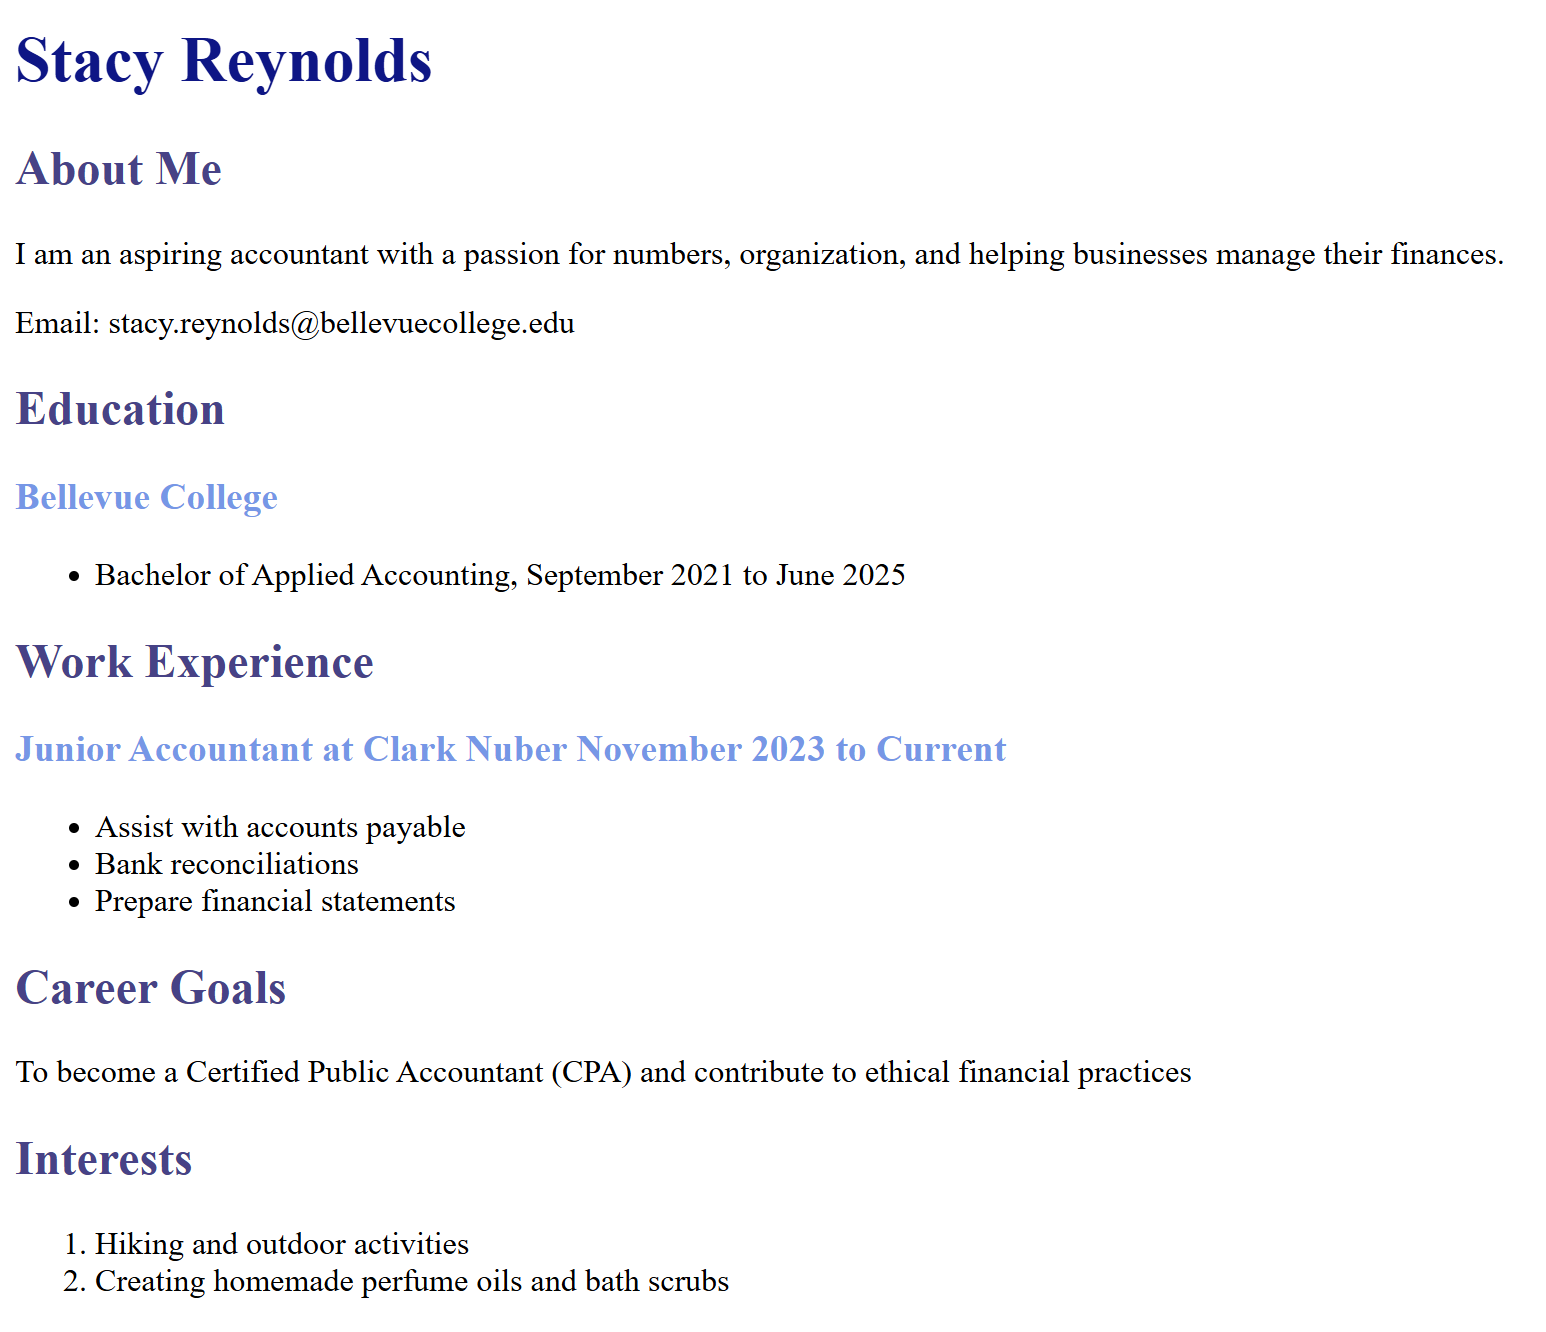
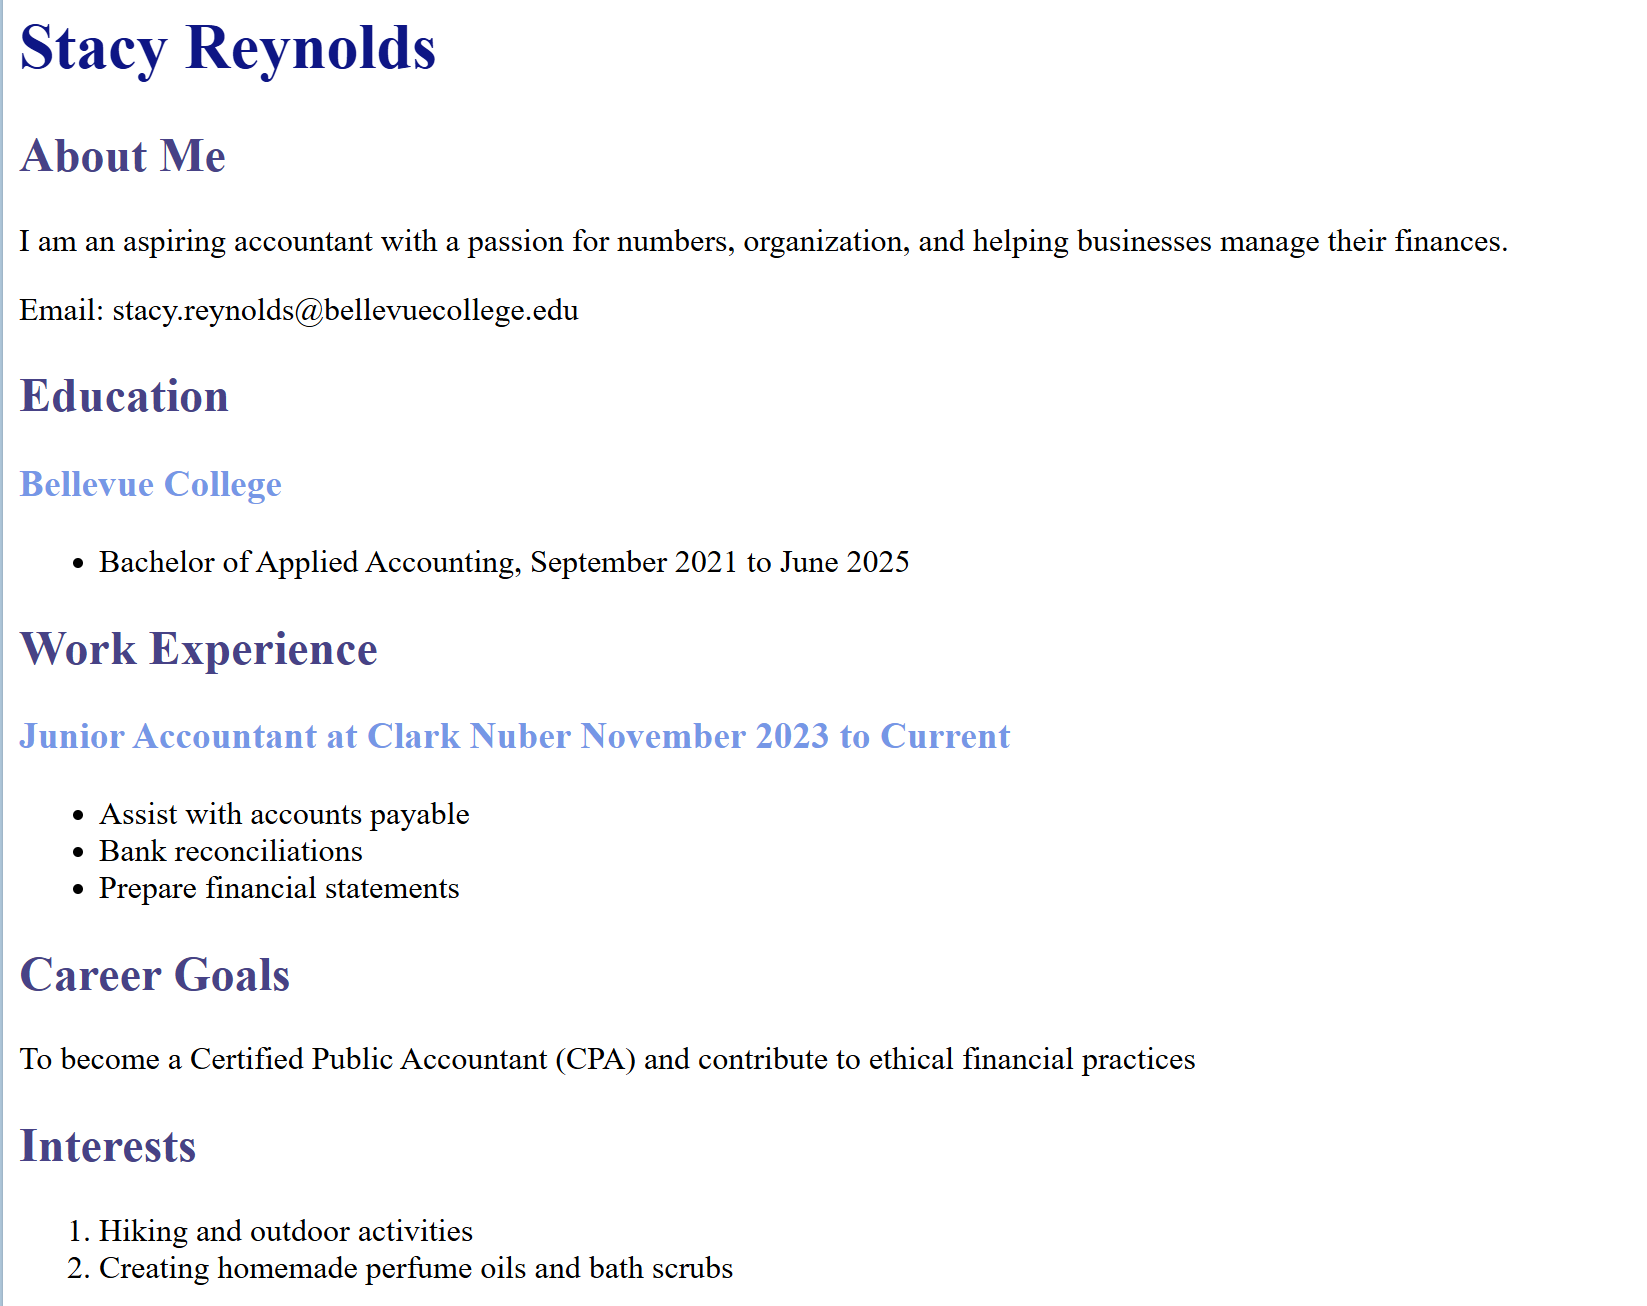
hg

diff --git a/portfolio.html b/portfolio.html
@@ -32,7 +32,7 @@
     
     <div class="card" id=project1>
     <a href="https://bitbystacy.github.io/project1/" target="_blank" rel="noopener">Web Project 1- Resume</a>
-      
+       <img src="resume.png" alt="Stacy Reynolds Resume" class="center-image" /> 
     <p>View my Resume project here</p>                 
         </div>
     
